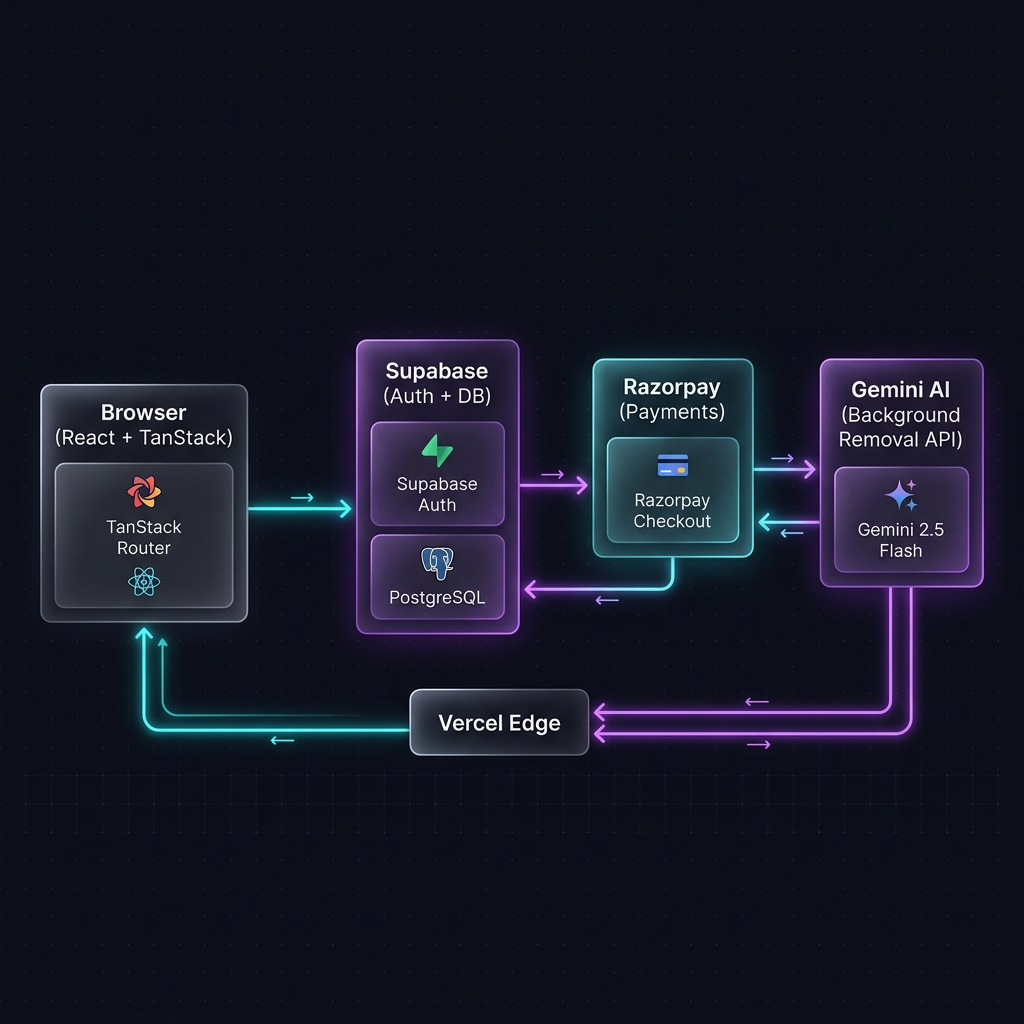
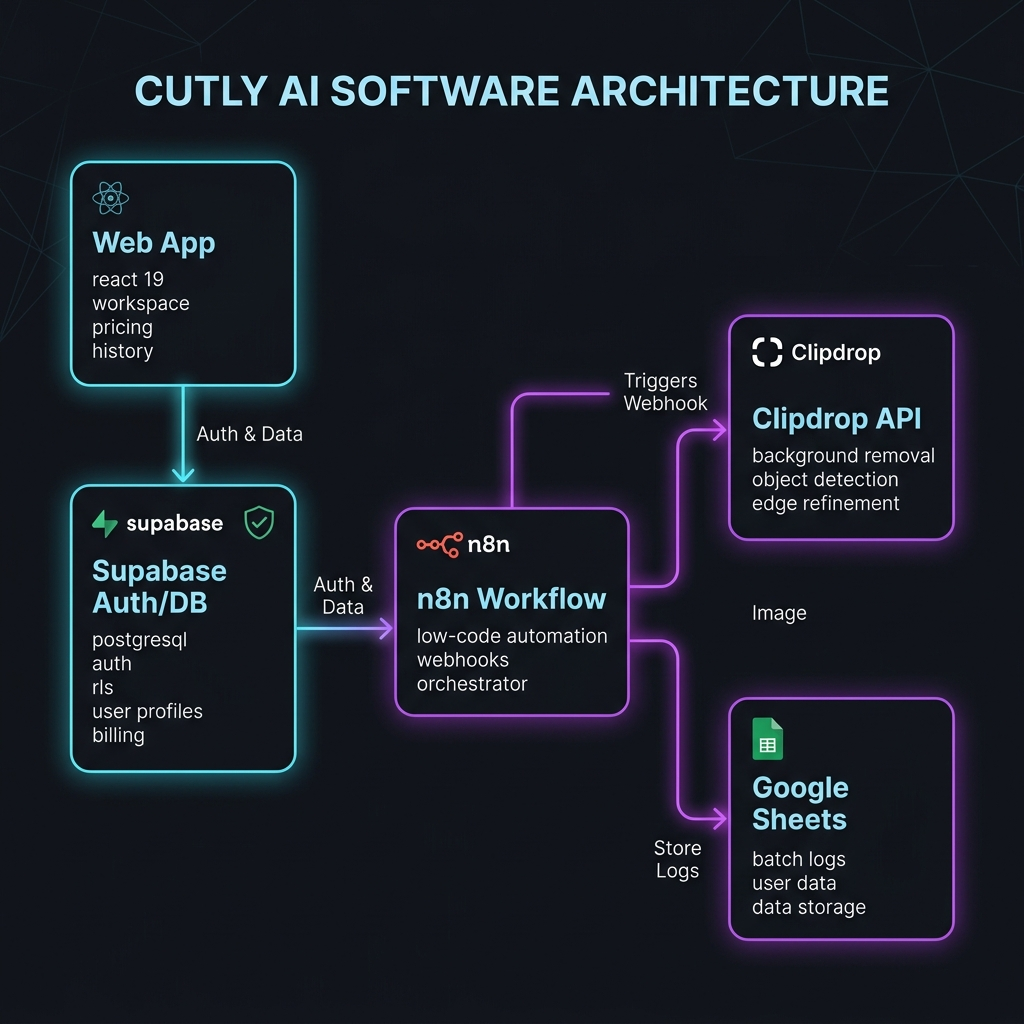
docs: simplify README using easy English and update flowchart with Clipdrop API + n8n + Google Sheets

Changed region(s): [[0.0312, 0.0625, 0.9688, 0.9375], [0.7188, 0.5938, 0.7812, 0.625]]

diff --git a/README.md b/README.md
@@ -22,8 +22,8 @@
 <br />
 <br />
 
-> **High-performance AI background removal in milliseconds.**  
-> Built with React 19, TanStack Start, Supabase Auth/DB, native IndexedDB caching, Razorpay Payments, and Gemini 2.5 Flash.
+> **A simple and fast AI background removal web app.**  
+> Built with React 19, TanStack, Supabase Auth/Database, Razorpay Payments, and an automated n8n batch workflow using the Clipdrop API and Google Sheets.
 
 <br />
 
@@ -33,7 +33,9 @@
 
 ---
 
-## 📺 Project Walkthrough
+## 📺 Live App Demo
+
+Here is a short video walkthrough of how the application works locally and online:
 
 <div align="center">
   <img src="public/demo.webp" alt="Cutly AI App Walkthrough Demo" width="90%" style="border-radius: 8px; border: 1px solid rgba(255, 255, 255, 0.1);" />
@@ -41,143 +43,146 @@
 
 ---
 
-## ✨ Verified Features
+## ⚙ How It Works (System Flow)
 
-### 🧠 Multimodal AI core
-* **Gemini 2.5 Flash Image Model** (`google/gemini-2.5-flash-image-preview` via Lovable API gateway) for background extraction.
-* Preserves complex image edges (hair strands, fur, semi-transparency) using customized prompting.
-* Accepts drag-and-drop images (PNG, JPG, HEIC) up to 20MB.
+Here is a simple flowchart showing how the React web app, Supabase database, Razorpay, n8n workflow, Clipdrop API, and Google Sheets connect together:
 
-### 💳 Credit Billing & Razorpay Integration
-* **Razorpay Checkout SDK** loaded on client for payments supporting UPI, Cards, NetBanking, and Wallets.
-* **Credit-based usage**: 1 credit consumed per successful background removal.
-* **Tiers & catalog**:
-  * Free Pack: 2 credits (guest / registration default)
-  * Pro Subscription: ₹99/mo (10 credits, recurring)
-  * Starter Credits Pack: ₹29 (50 credits, one-time)
-* **Razorpay webhook** endpoint (`/api/public/webhooks/razorpay`) with HMAC-SHA256 signature verification to process credit allocations.
-
-### 🔐 Double-Sided Authentication & RLS
-* **Supabase Auth** integration for user signup, login, session validation, and logout.
-* **Type-Safe Auth Middleware** (`requireSupabaseAuth`) built with TanStack Start to protect all server RPC actions.
-* Database security enforced with strict **Row Level Security (RLS)** in PostgreSQL (users can only access their own uploads and billing logs).
-
-### 💾 Hybrid Client & Server State
-* **Native IndexedDB Wrapper** (`local-db.ts`) handles offline caching and guest mode uploads.
-* Guest users can process backgrounds locally and retrieve historical logs from local storage without logging in.
-* Authenticated users get database persistence and real-time syncing between their online dashboard and local state.
-* **Dashboard Analytics**: Tracks total processed files, credits remaining, average processing speed, and total downloads.
-
-### 🔌 Developer REST API & n8n webhook
-* **Public endpoint**: `POST /api/public/v1/remove-bg` with `Authorization: Bearer <api-key>`.
-* **API Key CRUD**: Generate, view, and revoke API keys via the workspace settings dashboard.
-* **n8n Async Webhook**: Integrates with custom self-hosted n8n workflows (`n8n/workflows/cutly-batch.json`) for handling asynchronous batch image cutouts.
+<img src="public/architecture.png" alt="Cutly AI System Flowchart" width="100%" />
 
 ---
 
-## 🏗 Architecture
+## 🚀 Features
 
-<img src="public/architecture.png" alt="Cutly AI System Architecture" width="100%" />
+### 1. Easy Background Removal Workspace
+* Drag and drop your image (PNG, JPG, or HEIC) directly into the app.
+* See a cool side-by-side slider showing the **Before** and **After** images.
+* Download your background-removed image with a single click.
 
----
+### 2. Native IndexedDB Local Cache (Guest Mode)
+* If you do not want to log in, you can still use the app!
+* The app automatically saves your processed images directly in your browser's local memory (**IndexedDB**).
+* You can refresh the page and still see your previous workspace history.
 
-## 🛠 Verified Tech Stack
+### 3. User Login & Signup (Supabase)
+* Safe and secure user accounts powered by **Supabase Auth**.
+* Safe data access using **Row Level Security (RLS)** in PostgreSQL. This means users can only see their own history and account information.
 
-| Component | Library/Service | Purpose |
-|---|---|---|
-| **Frontend** | React 19, TypeScript 5.8 | UI development with strict typing |
-| **Framework** | TanStack Start | SSR & Type-Safe Server Functions (RPC) |
-| **Routing** | TanStack Router | File-based, type-safe navigation and head meta |
-| **Bundler** | Vite 7 | Fast build server and HMR pipeline |
-| **Database & Auth** | Supabase | PostgreSQL storage, User Auth, RLS Policies |
-| **AI Inference** | Gemini 2.5 Flash | Image-to-image foreground segmentations |
-| **Payments** | Razorpay SDK | Payment gateway and order routing |
-| **Local Cache** | Native IndexedDB API | Offline state database |
-| **Validation** | Zod | Server Function schema and payload validations |
-| **Styling** | Tailwind CSS v4 + Radix UI | Dark-mode, glassmorphic layout, fluid animations |
+### 4. Paid Upgrades & Credits (Razorpay)
+* Users get **free credits** when they sign up.
+* Need more? You can buy credit packs using the integrated **Razorpay Payment Gateway**.
+* Supports payments via **UPI (GPay, PhonePe, Paytm)**, Credit/Debit cards, NetBanking, and mobile wallets.
+* A secure webhook verifies the signature (`HMAC-SHA256`) and adds credits to your account after a successful payment.
 
----
+### 5. Automated n8n Batch Workflow & Clipdrop API
+* For processing multiple images in bulk, the app includes a pre-configured **n8n workflow** (`n8n/workflows/cutly-batch.json`).
+* **The flow works like this:**
+  1. A webhook triggers the n8n automation process.
+  2. n8n sends the images to the **Clipdrop API** to remove the background with high precision.
+  3. The background-removed image URLs are saved and logged directly inside a **Google Sheet** for easy tracking.
+  4. n8n sends a success notification webhook back to the Cutly database.
 
-## 📁 Key File Map
-
-```
-ai-cutout-studio/
-├── src/
-│   ├── components/
-│   │   ├── auth/AuthGate.tsx           # Protects routes requiring user authentication
-│   │   ├── history/HistoryUploadCard.tsx# History layout with analytics card
-│   │   └── app/AppSidebar.tsx          # Sidebar layout configuration
-│   │
-│   ├── lib/
-│   │   ├── local-db.ts                 # Native IndexedDB wrapper for guest mode
-│   │   ├── razorpay-checkout.ts        # Client Razorpay checkout invocation logic
-│   │   └── credits.ts                  # Billing tier default constants
-│   │
-│   ├── integrations/supabase/
-│   │   ├── auth-middleware.ts          # requireSupabaseAuth check middleware
-│   │   └── client.server.ts            # Server-side Supabase client initialization
-│   │
-│   ├── rpc/                            # Server RPC Function Layer
-│   │   ├── uploads.functions.ts        # Gemini processing, db save, download tracking
-│   │   └── razorpay.server.ts          # Razorpay order creator + verification logic
-│   │
-│   └── routes/
-│       ├── index.tsx                   # Marketing landing page
-│       ├── app.workspace.tsx           # Main workspace UI (drag-drop, slider, processing)
-│       ├── app.history.tsx             # History tab UI (offline/online mode switcher)
-│       ├── app.billing.tsx             # Plans and credits configuration
-│       ├── app.api-keys.tsx            # API key generation panel
-│       ├── pricing.tsx                 # Pricing overview & checkout trigger
-│       ├── api-docs.tsx                # REST API interactive documentation
-│       └── api/public/                 # Public webhooks and REST endpoints
-│           ├── v1/remove-bg.ts         # User API endpoints
-│           └── webhooks/razorpay.ts    # Razorpay payment listener
-```
+### 6. Developer Public REST API
+* Generate custom API keys from your settings dashboard.
+* Send automated `POST` requests to the endpoint `/api/public/v1/remove-bg` to process backgrounds from external apps.
 
 ---
 
-## 🚀 Deployed on Vercel
+## 🛠 Technology Stack
 
-The application is deployed live using **Vercel Serverless Functions**:
+* **Frontend**: React 19, TypeScript 5.8, Tailwind CSS v4, Radix UI.
+* **Routing**: TanStack Router (fast, type-safe file routing).
+* **Server**: TanStack Start (type-safe RPC Server Functions).
+* **Database & Auth**: Supabase (PostgreSQL database & user authentication).
+* **Payments**: Razorpay SDK.
+* **Automation**: n8n workflow.
+* **AI Background Removal**: Clipdrop API.
+* **Data Logging**: Google Sheets.
 
-🔗 **Production URL**: [https://ai-cutout-engine.vercel.app](https://ai-cutout-engine.vercel.app)
+---
 
-### Environment Variables required in Vercel
-Set these in your Vercel Dashboard (**Project Settings > Environment Variables**):
+## 📂 Code Directories
 
-```env
-# Supabase Configuration
-SUPABASE_URL="https://your-supabase.supabase.co"
-SUPABASE_PUBLISHABLE_KEY="your-anon-key"
-SUPABASE_SERVICE_ROLE_KEY="your-service-role-key"
+* `src/routes/index.tsx` — Clean, modern landing page.
+* `src/routes/app.workspace.tsx` — Workspace where you upload and remove backgrounds.
+* `src/routes/app.history.tsx` — History page showing past images (saves offline or online).
+* `src/routes/app.billing.tsx` — Checkout page to buy credits.
+* `src/routes/app.api-keys.tsx` — Page to create and manage developer API keys.
+* `src/rpc/razorpay.server.ts` — Server code to create Razorpay orders and verify signatures.
+* `src/lib/local-db.ts` — Handles saving guest-mode history in the browser's IndexedDB.
+* `n8n/workflows/cutly-batch.json` — The JSON configuration file for your n8n workflow.
 
-# Razorpay Configuration
-RAZORPAY_KEY_ID="rzp_test_..."
-RAZORPAY_KEY_SECRET="your-razorpay-secret"
-RAZORPAY_WEBHOOK_SECRET="your-webhook-secret"
+---
 
-# Gateway Configuration
-LOVABLE_API_KEY="your-lovable-gateway-api-key"
-```
+## 📦 Setting Up Locally
+
+1. **Clone the project repository:**
+   ```bash
+   git clone https://github.com/Hexecutionerr/ai-cutout-engine.git
+   cd ai-cutout-engine
+   ```
+
+2. **Install all dependencies:**
+   ```bash
+   npm install
+   ```
+
+3. **Configure your `.env` file:**
+   Create a `.env` file in the root folder and add your credentials:
+   ```env
+   SUPABASE_URL="https://your-project.supabase.co"
+   SUPABASE_PUBLISHABLE_KEY="your-anon-key"
+   SUPABASE_SERVICE_ROLE_KEY="your-service-role-key"
+   RAZORPAY_KEY_ID="rzp_test_..."
+   RAZORPAY_KEY_SECRET="your-secret"
+   ```
+
+4. **Run the developer server:**
+   ```bash
+   npm run dev
+   ```
+   Open `http://localhost:5173` in your browser.
+
+---
+
+## 🚀 How to Deploy on Vercel
+
+1. Make sure you install the Vercel CLI:
+   ```bash
+   npm install -g vercel
+   ```
+
+2. Push your local environment variables to Vercel:
+   ```bash
+   vercel env add SUPABASE_URL production
+   vercel env add SUPABASE_PUBLISHABLE_KEY production
+   vercel env add SUPABASE_SERVICE_ROLE_KEY production
+   vercel env add RAZORPAY_KEY_ID production
+   vercel env add RAZORPAY_KEY_SECRET production
+   ```
+
+3. Run the production deployment command:
+   ```bash
+   vercel --prod
+   ```
 
 ---
 
 <div align="center">
 
-## 👨💻 Author
+## 👨💻 Project Developer
 
 <img src="https://avatars.githubusercontent.com/Hexecutionerr" width="80" style="border-radius:50%" />
 
 **Hasnain Khan**  
-*Full-Stack Developer & AI Integrations*
+*Full-Stack Web Developer*
 
 [![GitHub](https://img.shields.io/badge/GitHub-Hexecutionerr-181717?style=for-the-badge&logo=github)](https://github.com/Hexecutionerr)
 [![LinkedIn](https://img.shields.io/badge/LinkedIn-Hasnain%20Khan-0077B5?style=for-the-badge&logo=linkedin)](https://www.linkedin.com/in/hasnain-khan-0ab3b2320)
 
 <br />
 
-*Built end-to-end with React 19, TanStack, Supabase, Razorpay, and Gemini AI.*
+*Built end-to-end with React 19, Supabase, Razorpay, n8n, Clipdrop API, and Google Sheets.*
 
-*If you find this project helpful, please ⭐ star the repository!*
+*If you like this project, please give it a ⭐ star!*
 
 </div>
